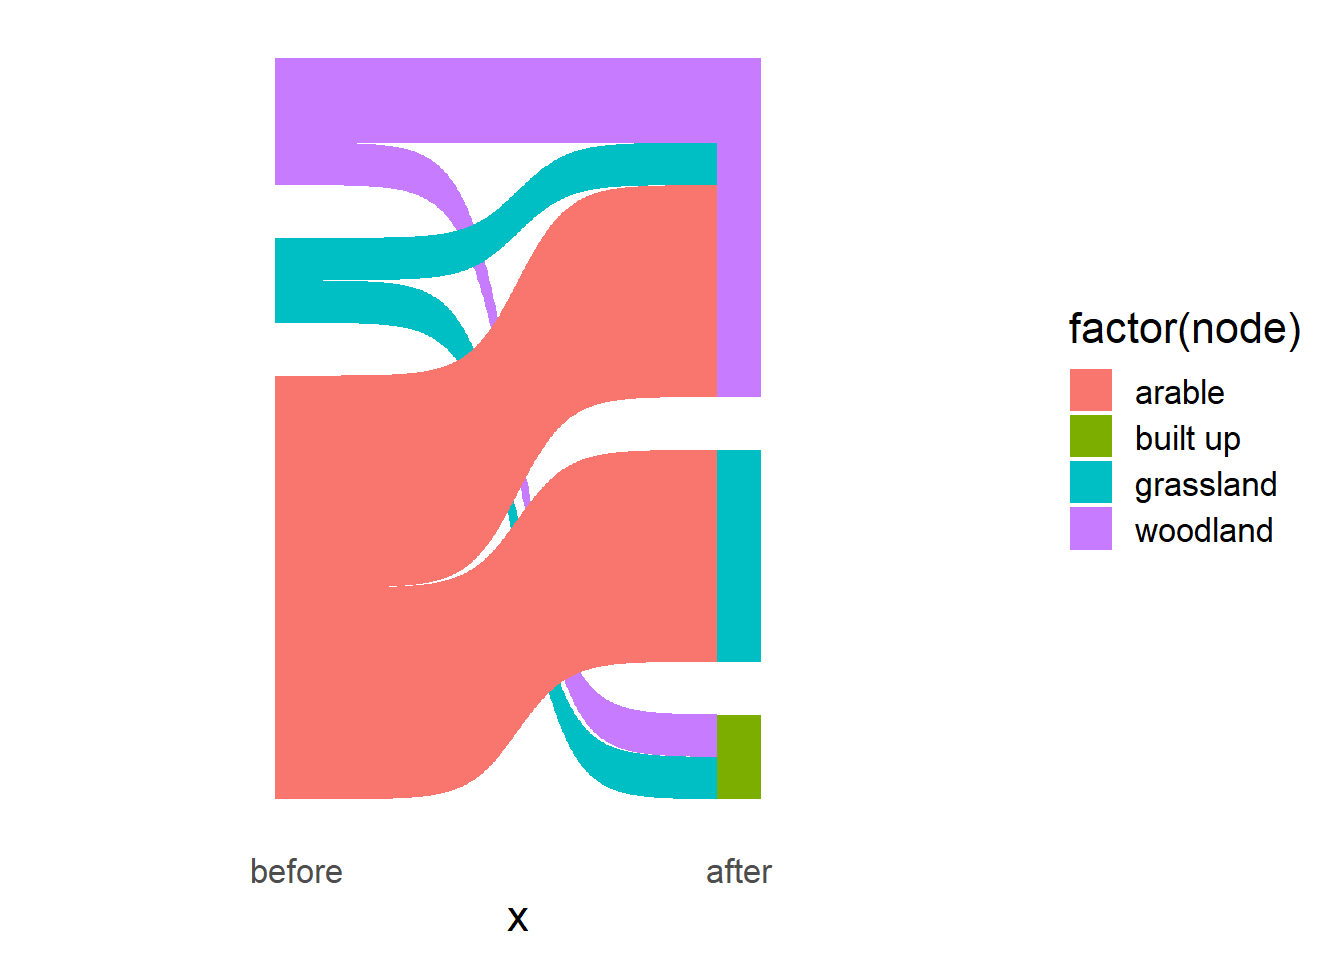
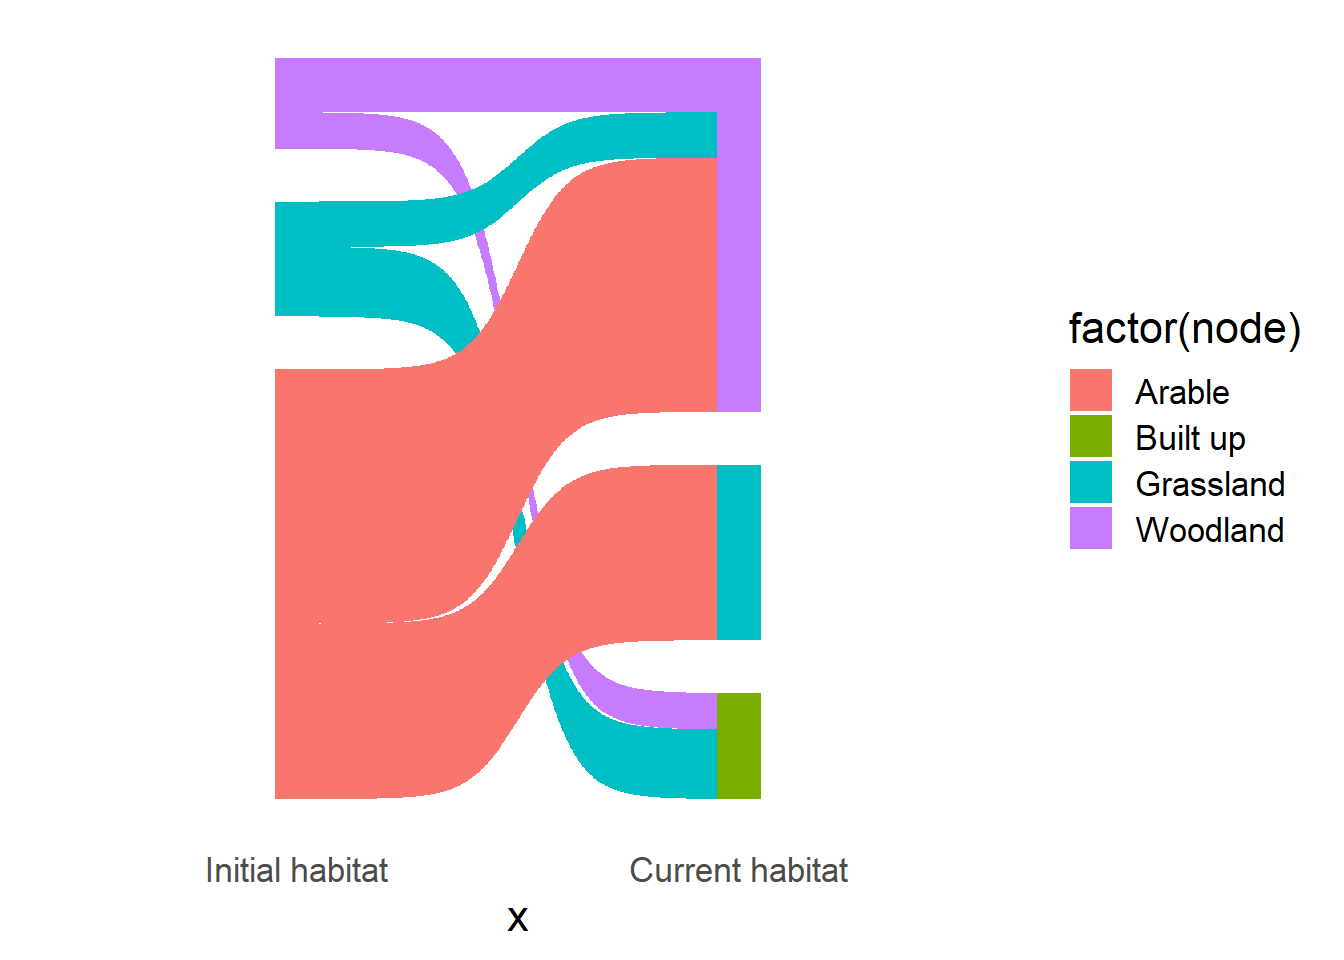
finished sankey

diff --git a/docs/showing-habitat-change.html b/docs/showing-habitat-change.html
@@ -11,7 +11,7 @@
 
 
 
-<title>showing-habitat-change</title>
+<title>Showing Habitat Change using a Sankey diagram</title>
 
 <script src="site_libs/header-attrs-2.18/header-attrs.js"></script>
 <script src="site_libs/jquery-3.6.0/jquery-3.6.0.min.js"></script>
@@ -276,35 +276,117 @@ $(document).ready(function () {
 
 
 
-<h1 class="title toc-ignore">showing-habitat-change</h1>
+<h1 class="title toc-ignore">Showing Habitat Change using a Sankey
+diagram</h1>
 
 </div>
 
 
 <div id="setup" class="section level2">
 <h2>Setup</h2>
-<pre class="r"><code>library(ggsankey)
+<p>Firstly we load in our libraries and the data. I use the <a
+href="https://www.tidyverse.org/">tidyverse</a> a lot for data cleaning
+and visualisation, <code>dplyr</code> (data wrangling),
+<code>tidyr</code> (data tidying), <code>ggplot2</code> (data
+visualisation), <code>stringr</code> for working with character strings
+and <code>readr</code> (data reading) all belong to the same family of
+packages. <code>ggsankey</code> is separate but complementary, and will
+need to be installed from github as opposed to CRAN.</p>
+<pre class="r"><code># devtools::install_github(&quot;davidsjoberg/ggsankey&quot;)
+library(ggsankey)
 library(dplyr)
 library(readr)
-library(ggplot2)</code></pre>
-<pre class="r"><code>data &lt;- readr::read_csv(&quot;data/habitat_change.csv&quot;)</code></pre>
-<pre><code>## Rows: 15 Columns: 3
-## ── Column specification ─────────────────────────────────────────────────────────────────────────────────────────────────
-## Delimiter: &quot;,&quot;
-## chr (2): before, after
-## dbl (1): id
-## 
-## ℹ Use `spec()` to retrieve the full column specification for this data.
-## ℹ Specify the column types or set `show_col_types = FALSE` to quiet this message.</code></pre>
-<pre class="r"><code>test_long &lt;- data %&gt;% 
-  ggsankey::make_long(before, after)
+library(tidyr)
+library(stringr)
+library(ggplot2)
+data &lt;- readr::read_csv(&quot;data/habitat_change.csv&quot;)
+dplyr::glimpse(data)</code></pre>
+<pre><code>## Rows: 15
+## Columns: 4
+## $ id     [3m[38;5;246m&lt;dbl&gt;[39m[23m 1, 2, 3, 4, 5, 6, 7, 8, 9, 10, 11, 12, 13, 14, 15
+## $ before [3m[38;5;246m&lt;chr&gt;[39m[23m &quot;woodland&quot;, &quot;woodland&quot;, &quot;woodland&quot;, &quot;arable&quot;, &quot;arable&quot;, &quot;arable&quot;, &quot;arable&quot;, &quot;a…
+## $ after  [3m[38;5;246m&lt;chr&gt;[39m[23m &quot;woodland&quot;, &quot;woodland&quot;, &quot;built up&quot;, &quot;grassland&quot;, &quot;grassland&quot;, &quot;grassland&quot;, &quot;gr…
+## $ area   [3m[38;5;246m&lt;dbl&gt;[39m[23m 10, 8, 12, 11, 4, 8, 24, 11, 12, 17, 15, 19, 21, 23, 15</code></pre>
+<p>Whenever I read a dataset into R, I tend to use
+<code>dplyr::glimpse</code> to get a look at the data. There are various
+ways to do this in R Studio, but I find glimpse to be the quickest and
+easiest. This example is a fairly typical of habitat data, one before
+the transition and one after. This could be an extract from the CEH Land
+Use Change dataset, or a Biodiversity Net Gain proposal.</p>
+<p>In order for <code>ggsankey</code> to run properly, we first need to
+use <code>tidyr::uncount</code> to convert the dataset so that 1 row = 1
+unit, in this fictional case 1 row = 1 hectare. This function is similar
+to <code>pivot_longer</code> but works better for this situation. We’re
+also going to tidy up the data so that the presentation is easier to
+digest for non-data audiences. <code>before</code> and
+<code>after</code> are useful column names for me, they’re description,
+lower case and 1 word, meaning they’re easy to work with in R. However,
+they could be far more descriptive for a visualiation, so I have changed
+them to <code>Initial habitat</code> and <code>Current habitat</code>.
+When putting a space within a column name in R (which is not recommended
+until you get to the stage to put it in a graph or table) you must label
+it with back-ticks - ``. We will also convert the habitat to sentance
+case so that the outputs in our legend are capitalised.</p>
+<pre class="r"><code>data_processed &lt;- data %&gt;% 
+  dplyr::group_by(before, after) %&gt;% 
+  tidyr::uncount(area) %&gt;% 
+  dplyr::ungroup() %&gt;% 
+  dplyr::mutate(`Initial habitat` = stringr::str_to_sentence(before), 
+                `Current habitat` = stringr::str_to_sentence(after))
 
-ggplot2::ggplot(test_long, 
+dplyr::glimpse(data_processed)</code></pre>
+<pre><code>## Rows: 210
+## Columns: 5
+## $ id                [3m[38;5;246m&lt;dbl&gt;[39m[23m 1, 1, 1, 1, 1, 1, 1, 1, 1, 1, 2, 2, 2, 2, 2, 2, 2, 2, 3, 3, 3, 3, 3…
+## $ before            [3m[38;5;246m&lt;chr&gt;[39m[23m &quot;woodland&quot;, &quot;woodland&quot;, &quot;woodland&quot;, &quot;woodland&quot;, &quot;woodland&quot;, &quot;woodla…
+## $ after             [3m[38;5;246m&lt;chr&gt;[39m[23m &quot;woodland&quot;, &quot;woodland&quot;, &quot;woodland&quot;, &quot;woodland&quot;, &quot;woodland&quot;, &quot;woodla…
+## $ `Initial habitat` [3m[38;5;246m&lt;chr&gt;[39m[23m &quot;Woodland&quot;, &quot;Woodland&quot;, &quot;Woodland&quot;, &quot;Woodland&quot;, &quot;Woodland&quot;, &quot;Woodla…
+## $ `Current habitat` [3m[38;5;246m&lt;chr&gt;[39m[23m &quot;Woodland&quot;, &quot;Woodland&quot;, &quot;Woodland&quot;, &quot;Woodland&quot;, &quot;Woodland&quot;, &quot;Woodla…</code></pre>
+<p>Then we run the <code>ggsankey::make_long</code> function, which
+formats the data specifically to create the graph. Some R packages will
+do this if they need the data in a specific way. Then we can create our
+basic sankey graph, showing the transition from one habitat to
+another.</p>
+<pre class="r"><code>data_long &lt;- data_processed %&gt;% 
+  ggsankey::make_long(`Initial habitat`, `Current habitat`)
+
+sankey_plot &lt;- ggplot2::ggplot(data_long, 
                 ggplot2::aes(x = x, next_x = next_x, node = node, 
                     next_node = next_node, fill = factor(node))) +
   ggsankey::geom_sankey() +
-  ggsankey::theme_sankey(base_size = 16) </code></pre>
+  ggsankey::theme_sankey(base_size = 16) 
+sankey_plot</code></pre>
 <p><img src="showing-habitat-change_files/figure-html/sankey-1.png" width="672" /></p>
+<p>The great thing about <code>ggplot2</code> is that you’re able to
+layer more and more custom options on top of each other, allowing you to
+programmatically find the right look for your graph and then repeat this
+across other, similar plots. Using your organisations’s brand colour
+scheme, fonts, etc. is a great way to make reports more aligned and
+professional. However, it is also essential to make sure that your
+visualisation is accessible to those with colourblindness.</p>
+<p>In the absence of a colourblind friendly brand palette, I would
+recommend using the <a
+href="https://malcolmbarrett.github.io/ggokabeito/">Okabe-Ito
+palette</a> for discrete datasets, and <a
+href="https://cran.r-project.org/web/packages/viridis/vignettes/intro-to-viridis.html">Viridis</a>
+for continous. I’ve experimented with a lot of palettes and find these
+two to be the most accessible and stylish. The land uses in my dummy
+data come directly from the CEH Land Cover Map, and I have actually
+created a colourblind friendly palette for these categories downloaded
+as a QGIS QML file <a
+href="https://www.ceh.ac.uk/sites/default/files/2022-08/LCM%20layer%20files.zip">here</a>.</p>
+<p>We will also make some more quality of life changes. The x axis label
+is not neccessary due to our informative naming of the columns earlier
+and we need to rename the legend title.</p>
+<pre class="r"><code>sankey_plot &lt;- sankey_plot +
+  ggokabeito::scale_fill_okabe_ito() +
+  ggplot2::labs(x = &quot;&quot;, fill = &quot;Habitat&quot;) 
+sankey_plot</code></pre>
+<p><img src="showing-habitat-change_files/figure-html/unnamed-chunk-1-1.png" width="672" /></p>
+<p>There we are! A reasonably professional and fairly novel way to show
+a habitat transition. Obviously there is far more we can do, but for now
+I would be quite happy to include that within a project report or
+dashboard.</p>
 </div>
 
 

diff --git a/docs/styles.css b/docs/styles.css
@@ -3,3 +3,27 @@ h3 { font-family: "Trebuchet MS", "Lucida Grande", "Lucida Sans Unicode", "Lucid
 p { font-family: "Trebuchet MS", "Lucida Grande", "Lucida Sans Unicode", "Lucida Sans", Tahoma, sans-serif; font-size: 14px; font-style: normal; font-variant: normal; font-weight: 400; line-height: 21px; } 
 blockquote { font-family: "Trebuchet MS", "Lucida Grande", "Lucida Sans Unicode", "Lucida Sans", Tahoma, sans-serif; font-size: 21px; font-style: normal; font-variant: normal; font-weight: 400; line-height: 30px; } 
 pre { font-family: "Trebuchet MS", "Lucida Grande", "Lucida Sans Unicode", "Lucida Sans", Tahoma, sans-serif; font-size: 13px; font-style: normal; font-variant: normal; font-weight: 400; line-height: 18.5714px; }
+
+ul {
+  list-style-type: none;
+  margin: 0;
+  padding: 0;
+  overflow: hidden;
+}
+
+li {
+  float: left;
+}
+
+li a {
+  display: block;
+  color: white;
+  text-align: center;
+  padding: 14px 16px;
+  text-decoration: none;
+}
+
+/* Change the link color to #111 (black) on hover */
+li a:hover {
+  background-color: #008080;
+}

diff --git a/styles.css b/styles.css
@@ -3,3 +3,27 @@ h3 { font-family: "Trebuchet MS", "Lucida Grande", "Lucida Sans Unicode", "Lucid
 p { font-family: "Trebuchet MS", "Lucida Grande", "Lucida Sans Unicode", "Lucida Sans", Tahoma, sans-serif; font-size: 14px; font-style: normal; font-variant: normal; font-weight: 400; line-height: 21px; } 
 blockquote { font-family: "Trebuchet MS", "Lucida Grande", "Lucida Sans Unicode", "Lucida Sans", Tahoma, sans-serif; font-size: 21px; font-style: normal; font-variant: normal; font-weight: 400; line-height: 30px; } 
 pre { font-family: "Trebuchet MS", "Lucida Grande", "Lucida Sans Unicode", "Lucida Sans", Tahoma, sans-serif; font-size: 13px; font-style: normal; font-variant: normal; font-weight: 400; line-height: 18.5714px; }
+
+ul {
+  list-style-type: none;
+  margin: 0;
+  padding: 0;
+  overflow: hidden;
+}
+
+li {
+  float: left;
+}
+
+li a {
+  display: block;
+  color: white;
+  text-align: center;
+  padding: 14px 16px;
+  text-decoration: none;
+}
+
+/* Change the link color to #111 (black) on hover */
+li a:hover {
+  background-color: #008080;
+}
